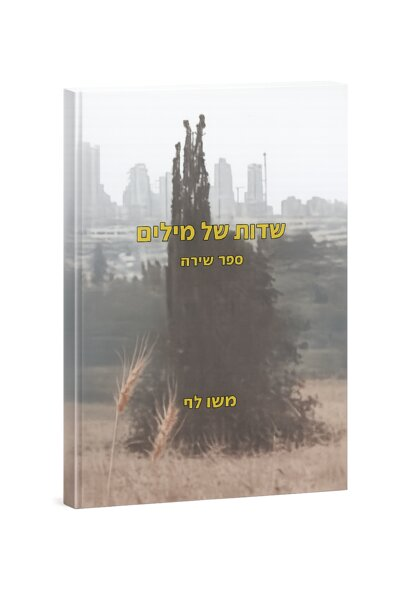
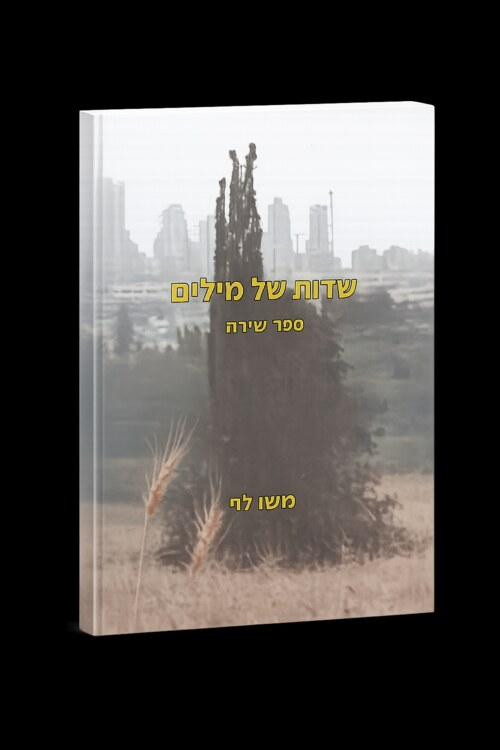
Add files via upload

diff --git a/index.html b/index.html
@@ -221,9 +221,9 @@
     }
     .book-card img {
       width: 100%;
-      aspect-ratio: 3/4;
-      object-fit: cover;
       display: block;
+      object-fit: contain;
+      background: #0a0a0a;
     }
     .book-card .book-title {
       padding: 12px 14px;
